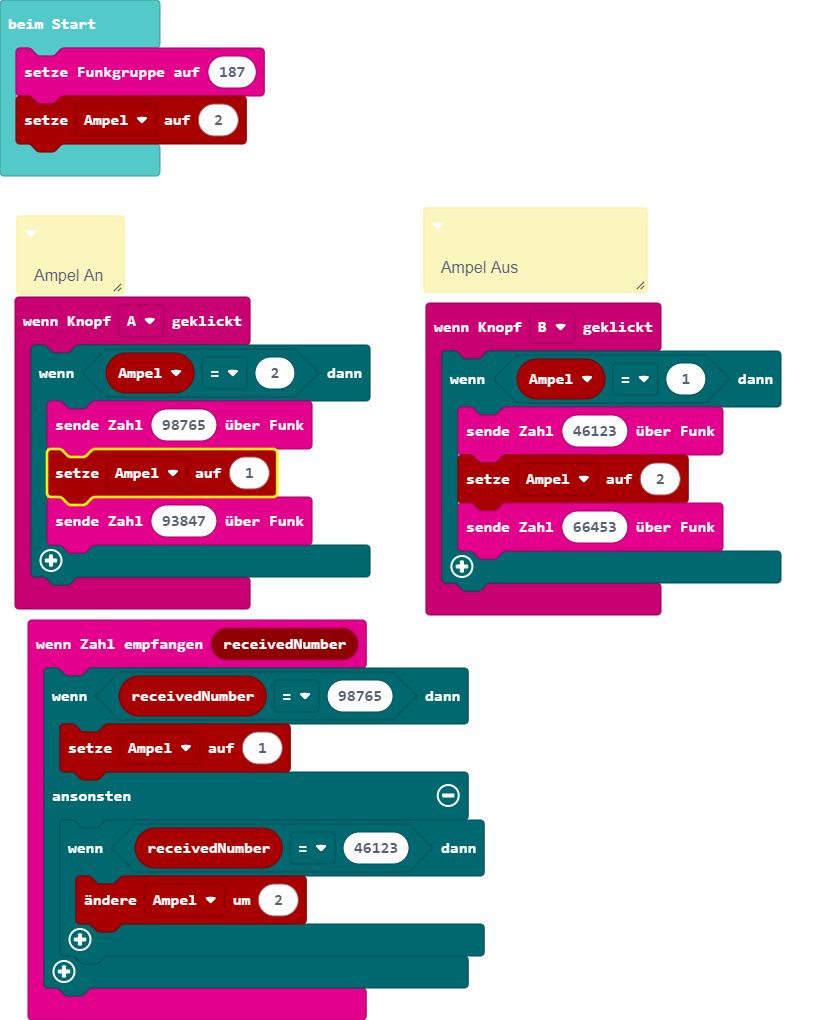
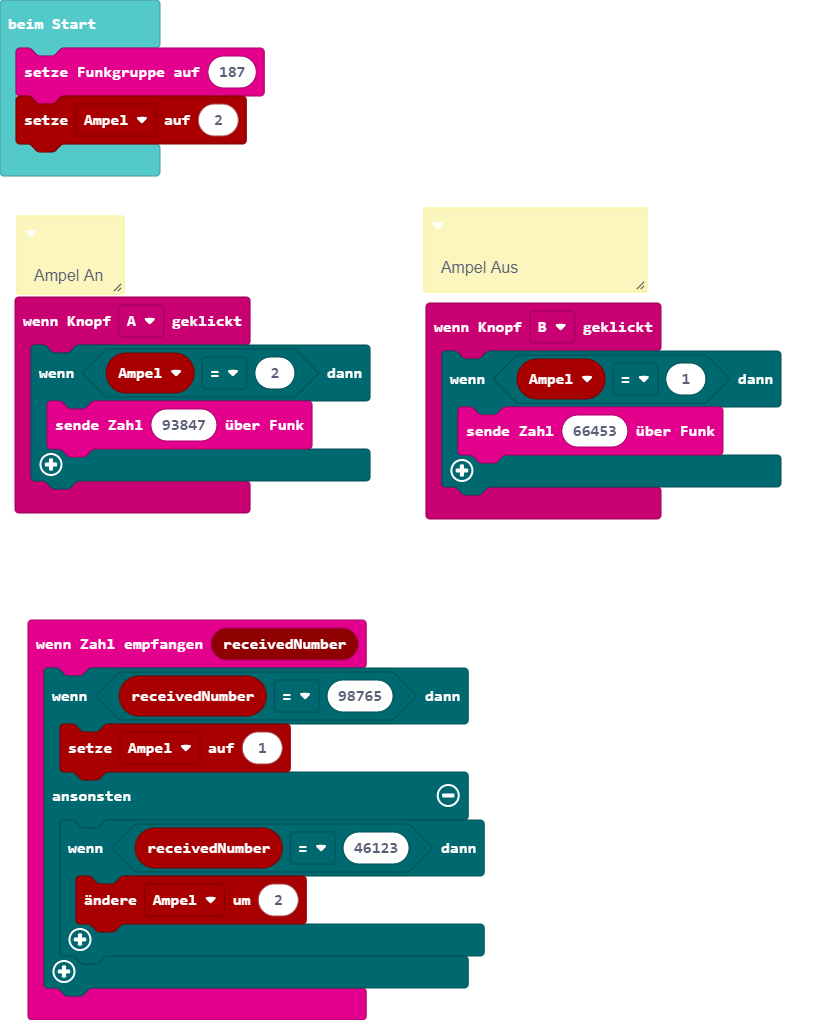
Aktualisiere main.blocks, main.ts

Changed region(s): [[0.0, 0.3951, 0.4682, 0.6078], [0.4994, 0.3951, 0.9364, 0.6078]]

diff --git a/main.ts b/main.ts
@@ -15,15 +15,11 @@ radio.onReceivedNumber(function (receivedNumber) {
  */
 input.onButtonPressed(Button.A, function () {
     if (Ampel == 2) {
-        radio.sendNumber(98765)
-        Ampel = 1
         radio.sendNumber(93847)
     }
 })
 input.onButtonPressed(Button.B, function () {
     if (Ampel == 1) {
-        radio.sendNumber(46123)
-        Ampel = 2
         radio.sendNumber(66453)
     }
 })
